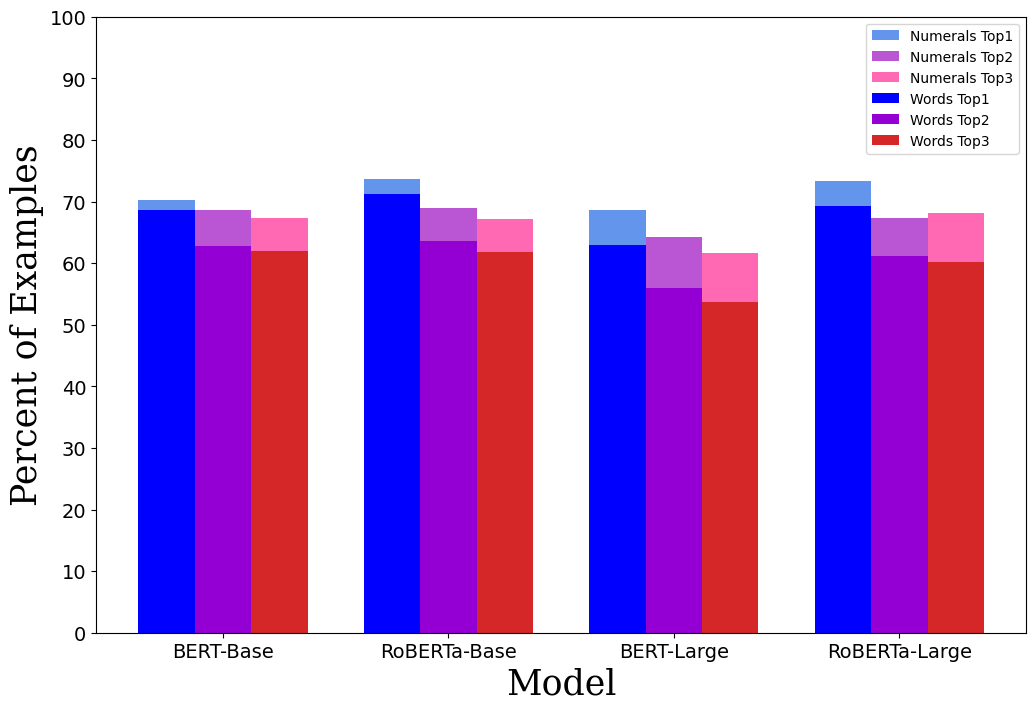
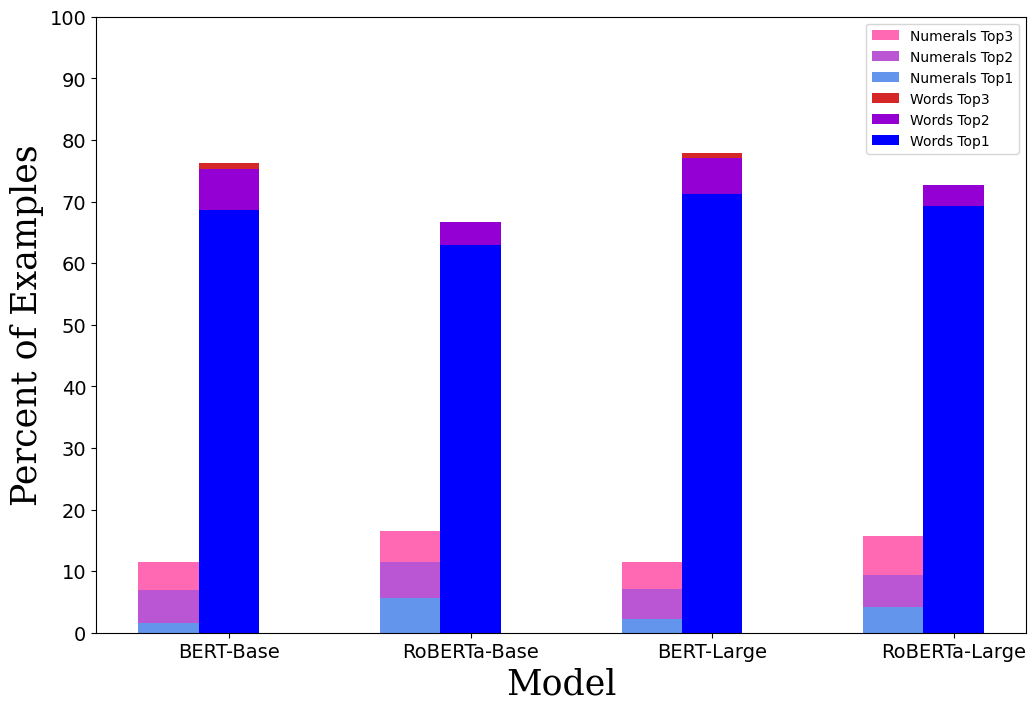
Fixed unconstrained figure

diff --git a/src/scripting_evaluate.py b/src/scripting_evaluate.py
@@ -1,27 +1,11 @@
 import subprocess
 
 # Define the command to run the script and redirect output to a file
-command = "python myscript.py > output.txt"
 
 # # Use subprocess to run the command
 # subprocess.run(command, shell=True)
-file_names = ["bert-base.test.new.output.jsonl",
-           "bert-base.test.new.output.only_numerals.jsonl",
-           "bert-base.test.new.output_with_numerals.jsonl",
-           "bert-large.test.new.output.jsonl",
-           "bert-large.test.new.output.only_numerals.jsonl",
-           "bert-large.test.new.output_with_numerals.jsonl",
-           "ft_bert_large_6464642.test.new.output.jsonl",
-           "ft_roberta_large_6464642.test.new.output.jsonl",
-           "gpt.test.new.output.jsonl",
-           "gpt.test.new.output.only_numerals.jsonl",
-           "gpt.test.new.output_with_numerals.jsonl",
-           "roberta-base.test.new.output.jsonl",
-           "roberta-base.test.new.output.only_numerals.jsonl",
-           "roberta-base.test.new.output_with_numerals.jsonl",
-           "roberta-large.test.new.output.jsonl",
-           "roberta-large.test.new.output.only_numerals.jsonl",
-           "roberta-large.test.new.output_with_numerals.jsonl"]
+file_names = ['test_results/unconstrained/bert-base.test.new.unconstrained.jsonl', 'test_results/unconstrained/bert-large.test.new.unconstrained.jsonl',
+              'test_results/unconstrained/roberta-large.test.new.unconstrained.jsonl', 'test_results/unconstrained/roberta-base.test.new.unconstrained.jsonl']
 
 # file_names = ['bert-base.test.all.output.new.jsonl',
 #               'bert-base.test.core.output.new.jsonl',
@@ -35,7 +19,8 @@ file_names = ["bert-base.test.new.output.jsonl",
 #               'roberta-large.test.core.output.new.jsonl']
 
 for results_path in file_names:
+    results_path = results_path.replace("test_results/", "")
     is_numeral = "numeral" in results_path
     numeral_addition = "True" if is_numeral else ""
     truth_file = "test.new.answers.txt"
-    subprocess.run(f"python src/evaluator.py test_results/{results_path} data/{truth_file} {numeral_addition} > evaluated_test_results/{results_path}", shell=True)
+    subprocess.run(f"python src/evaluator_non_words.py test_results/{results_path} data/{truth_file} {numeral_addition} > evaluated_test_results/{results_path}", shell=True)

diff --git a/src/evaluator_non_words.py b/src/evaluator_non_words.py
@@ -31,14 +31,26 @@ with open(filepath) as f:
             truth = "zero"  # always use zero
         results = [(item["word"], item["score"]) for item in data["result_list"]]
         results = sorted(results, key=lambda x: x[1], reverse=True)
+        results = [i[0] for i in results]
         total += 1
-        for i, res in enumerate(results):
-          if res in NUMERALS:
-            numeral[i] += 1
-          elif res in WORDS:
-            words[i] += 1
-          else:
-            other[i] += 1
+        if results[0] in NUMERALS:
+          numeral[0] += 1
+        elif results[0] in WORDS:
+          words[0] += 1
+        else:
+          other[0] += 1
+        if results[0] in NUMERALS or results[1] in NUMERALS:
+          numeral[1] += 1
+        elif results[0] in WORDS or results[1] in WORDS:
+          words[1] += 1
+        if (results[0] not in NUMERALS and results[0] in WORDS) or (results[1] not in NUMERALS and results[1] in WORDS):
+          other[1] += 1
+        if results[0] in NUMERALS or results[1] in NUMERALS or results[2] in NUMERALS:
+          numeral[2] += 1
+        elif results[0] in WORDS or results[1] in WORDS or results[2] in WORDS:
+          words[2] += 1
+        if (results[0] not in NUMERALS and results[0] in WORDS) or (results[1] not in NUMERALS and results[1] in WORDS) or (results[2] not in NUMERALS and results[2] in WORDS):
+          other[2] += 1
 
 print("Percentage of numerals", [n/total for n in numeral])
 print("Percentage of number words", [n/total for n in words])
